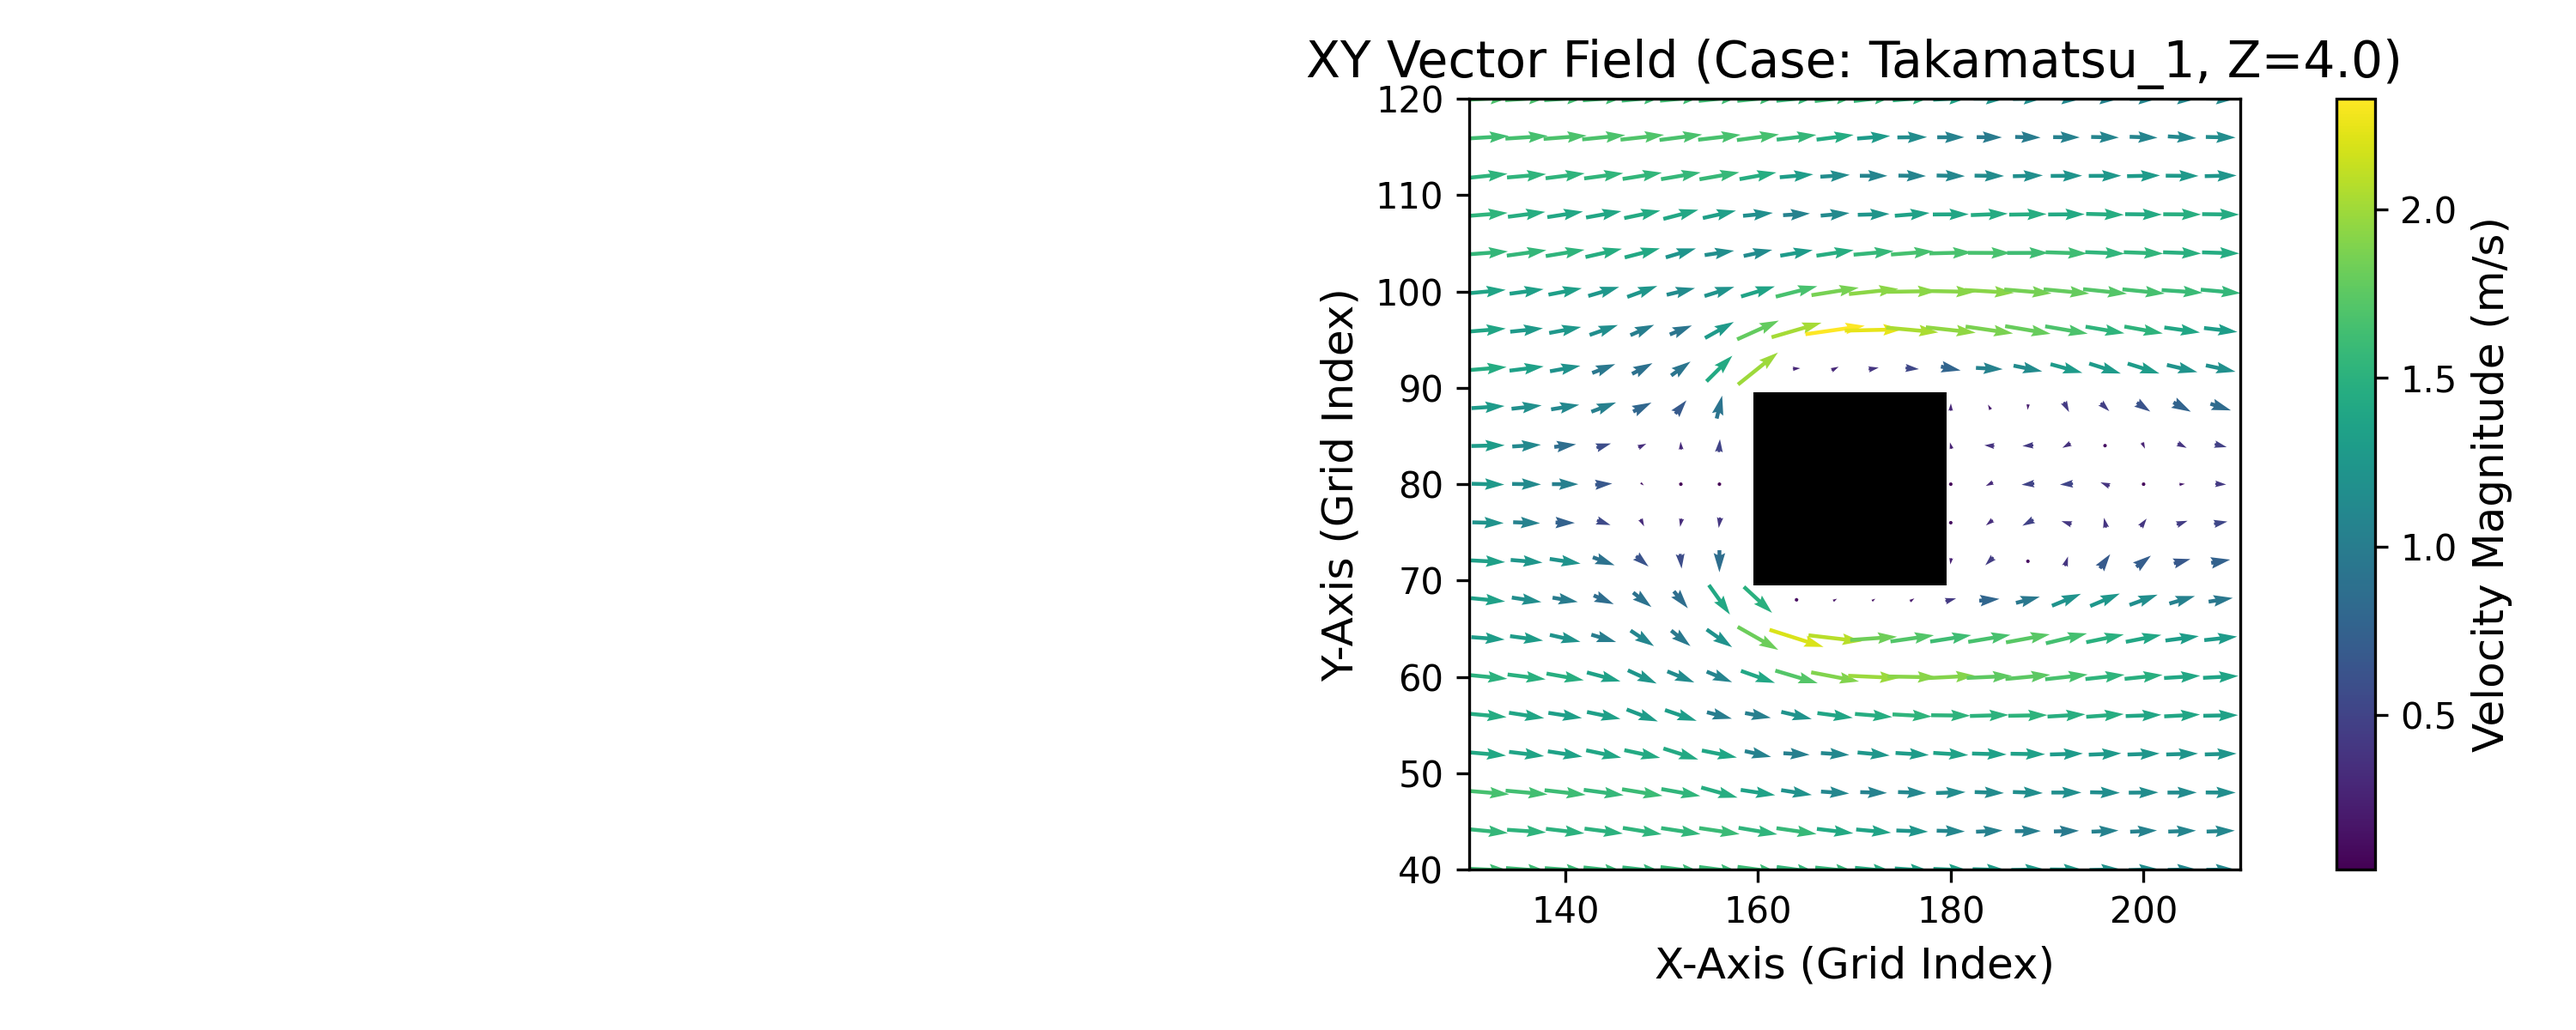
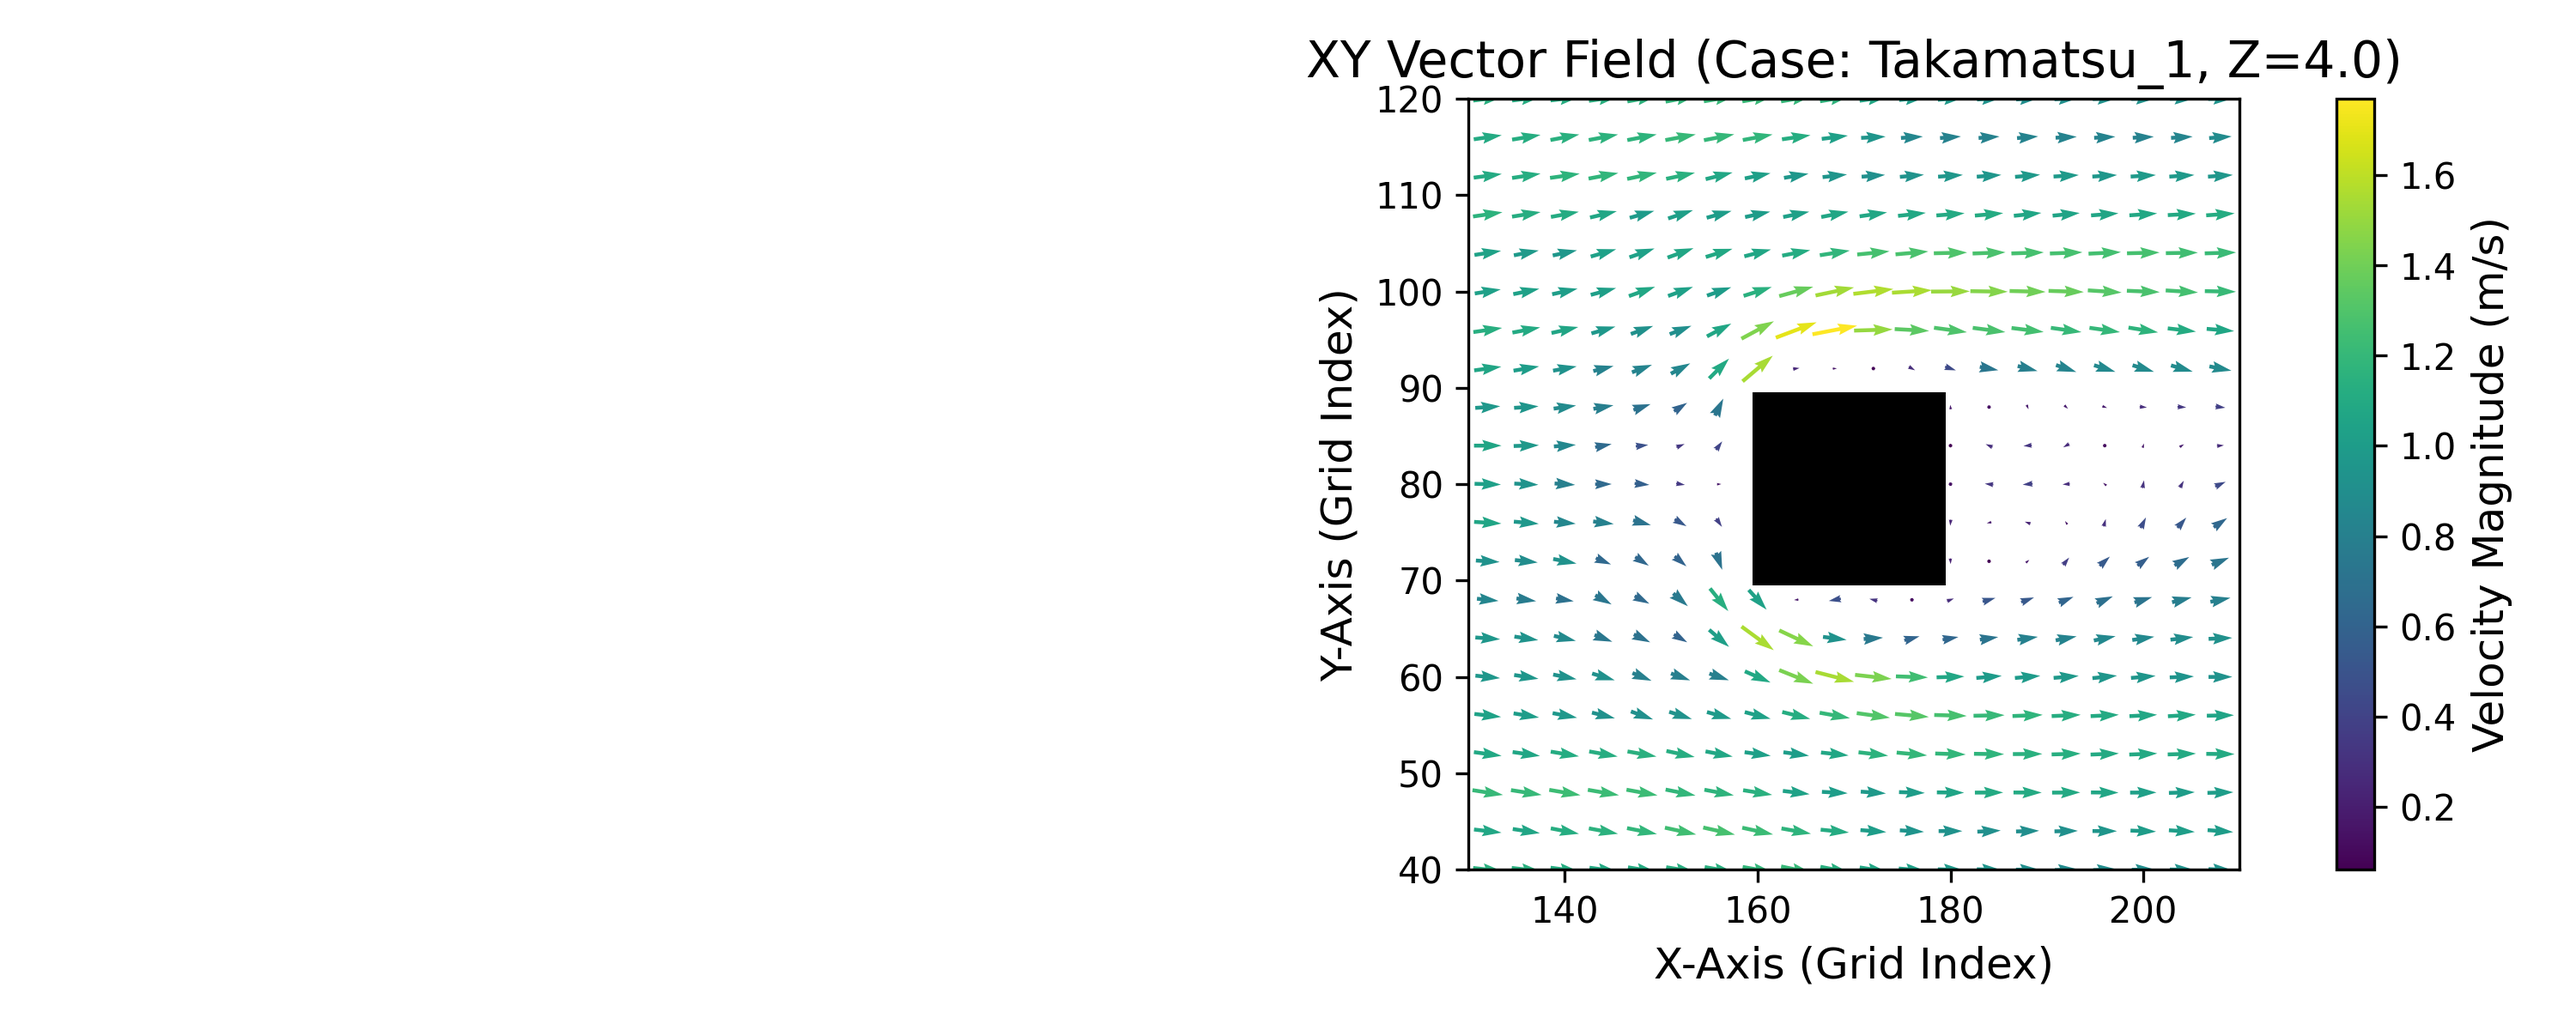
u v updates takamatsu

diff --git a/scripts/plot_xy_heatmap.py b/scripts/plot_xy_heatmap.py
@@ -61,8 +61,21 @@ if __name__ == "__main__":
     # --- 1. Configuration ---
     # Map your simulation cases to their specific Rclone file paths
     simulation_cases = {
-        "Takamatsu_1_v_600": "Z:/20260525_output_takamatsu/xy_vm00060000_0000.csv",
-        "Takamatsu_1_v_1200": "Z:/20260525_output_takamatsu/xy_vm00120000_0000.csv"
+        # "Takamatsu_1_v_600": "Z:/20260525_output_takamatsu/xy_vm00060000_0000.csv",
+        # "Takamatsu_1_v_750": "Z:/20260525_output_takamatsu/xy_vm00075000_0000.csv",
+        # "Takamatsu_1_v_900": "Z:/20260525_output_takamatsu/xy_vm00090000_0000.csv",
+        # "Takamatsu_1_v_1050": "Z:/20260525_output_takamatsu/xy_vm00105000_0000.csv",
+        # "Takamatsu_1_v_1200": "Z:/20260525_output_takamatsu/xy_vm00120000_0000.csv"
+        "Takamatsu_2_v_600_noncyclic": "Z:/20260526_output_Takamatsu_2_noncyclic/xy_vm00060000_0000.csv",
+        "Takamatsu_2_v_750_noncyclic": "Z:/20260526_output_Takamatsu_2_noncyclic/xy_vm00075000_0000.csv",
+        "Takamatsu_2_v_900_noncyclic": "Z:/20260526_output_Takamatsu_2_noncyclic/xy_vm00090000_0000.csv",
+        "Takamatsu_2_v_1050_noncyclic": "Z:/20260526_output_Takamatsu_2_noncyclic/xy_vm00105000_0000.csv",
+        "Takamatsu_2_v_1200_noncyclic": "Z:/20260526_output_Takamatsu_2_noncyclic/xy_vm00120000_0000.csv",
+        # "Takamatsu_2_u_600_noncyclic": "Z:/20260526_output_Takamatsu_2_noncyclic/xy_um00060000_0000.csv",
+        # "Takamatsu_2_u_750_noncyclic": "Z:/20260526_output_Takamatsu_2_noncyclic/xy_um00075000_0000.csv",
+        # "Takamatsu_2_u_900_noncyclic": "Z:/20260526_output_Takamatsu_2_noncyclic/xy_um00090000_0000.csv",
+        # "Takamatsu_2_u_1050_noncyclic": "Z:/20260526_output_Takamatsu_2_noncyclic/xy_um00105000_0000.csv",
+        # "Takamatsu_2_u_1200_noncyclic": "Z:/20260526_output_Takamatsu_2_noncyclic/xy_um00120000_0000.csv"
     }
     
     # The specific height layer you want to visualize

diff --git a/scripts/plot_xy_vectorfield.py b/scripts/plot_xy_vectorfield.py
@@ -79,8 +79,8 @@ if __name__ == "__main__":
     # Map your simulation cases to their specific Rclone file paths
     simulation_cases = {
         "Takamatsu_1" : {
-        "u_path": "Z:/20260525_output_takamatsu/xy_um00120000_0000.csv",
-        "v_path": "Z:/20260525_output_takamatsu/xy_vm00120000_0000.csv"
+        "u_path": "Z:/20260526_output_Takamatsu_2_noncyclic/xy_um00120000_0000.csv",
+        "v_path": "Z:/20260526_output_Takamatsu_2_noncyclic/xy_vm00120000_0000.csv"
     }
     }
     
